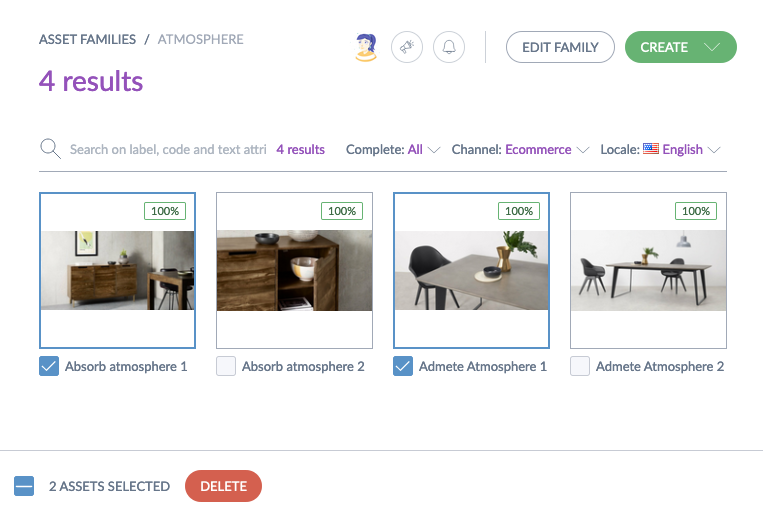
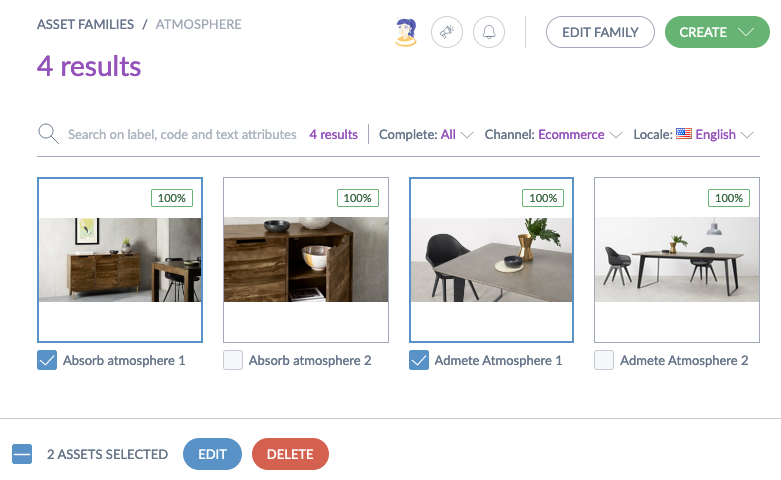
Assets bulk edit-  new paragraph

diff --git a/content/md/products-super-power/work-on-your-assets.md b/content/md/products-super-power/work-on-your-assets.md
@@ -72,6 +72,23 @@ You also have the completeness indicator directly on the asset thumbnail in the 
 
 The completeness is **automatically calculated** as soon as we enrich a required attribute. It means that the bullet point will disappear as soon as the required attribute is filled, and same for the completeness percentage evolution.
 
+# Edit assets
+## Bulk edit a selection of asset attributes
+It is possible to bulk edit your own selection of asset attributes in an asset family.
+1. Check the box under each asset you would like to bulk edit
+1. In the bottom bar, click on `edit`
+1. At the "edit" step, click on `add attributes` in the top right menu
+![Assets attributes selection](../img/Assets_bulk-edit-add-attributes.png)
+1. Select the attributes you would like to bulk edit
+![Assets attributes selection](../img/Assets_bulk-edit-attributes-selection.png)
+1. Fill in the values you want for each selected attribute
+1. Once you are done, click on `next` in the top right corner
+1. At the "confirm" step, you can visualise the changes that will be made. If you want to continue, click on `Confirm`
+
+::: warning
+Please note that it is possible to add the same attribute multiple times. For instance, if you would like to edit an attribute that is scopable and/or localisable, you will have the possibility to do so by adding the attribute as many times as you want, but you will have to carefully select a different locale and/or scope for each of them so that you will avoid to setting different values for the same attribute with the same locale and/or same scope.
+:::
+
 # Delete assets
 
 ## Delete an asset
